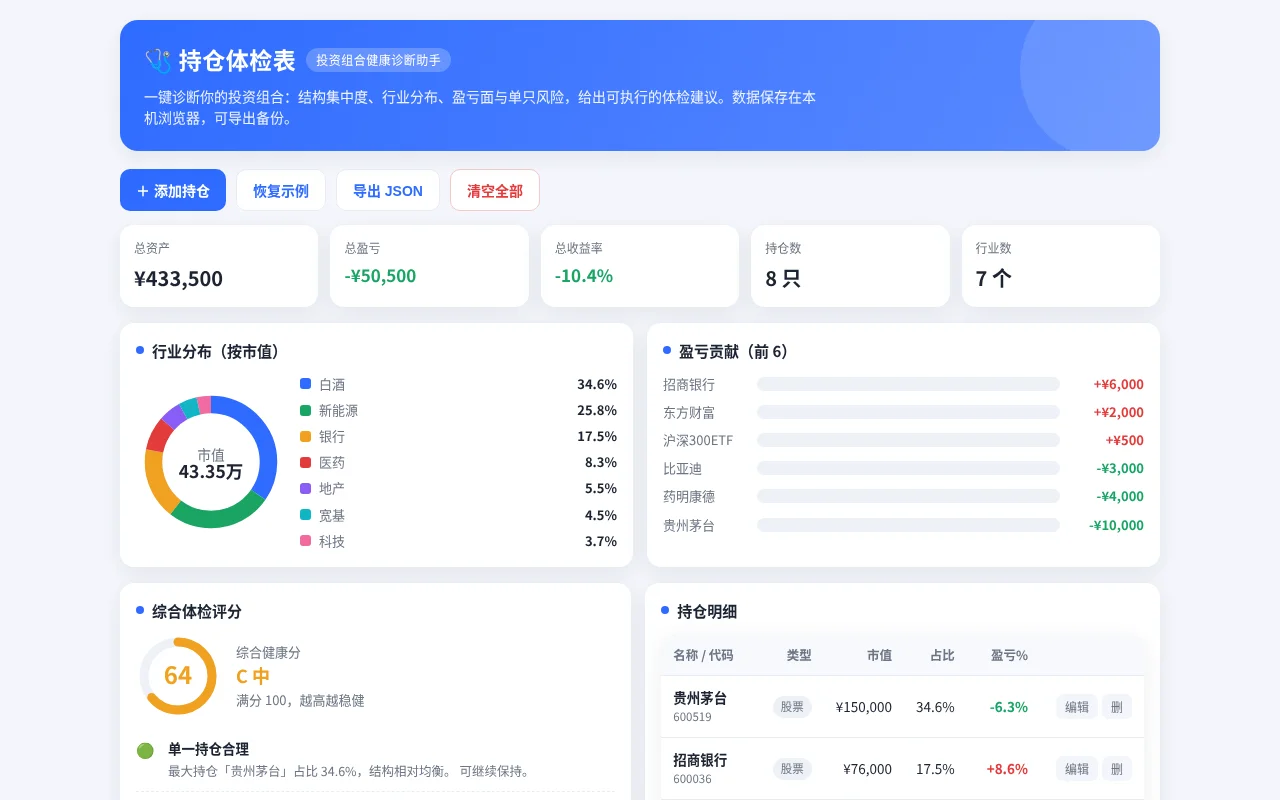
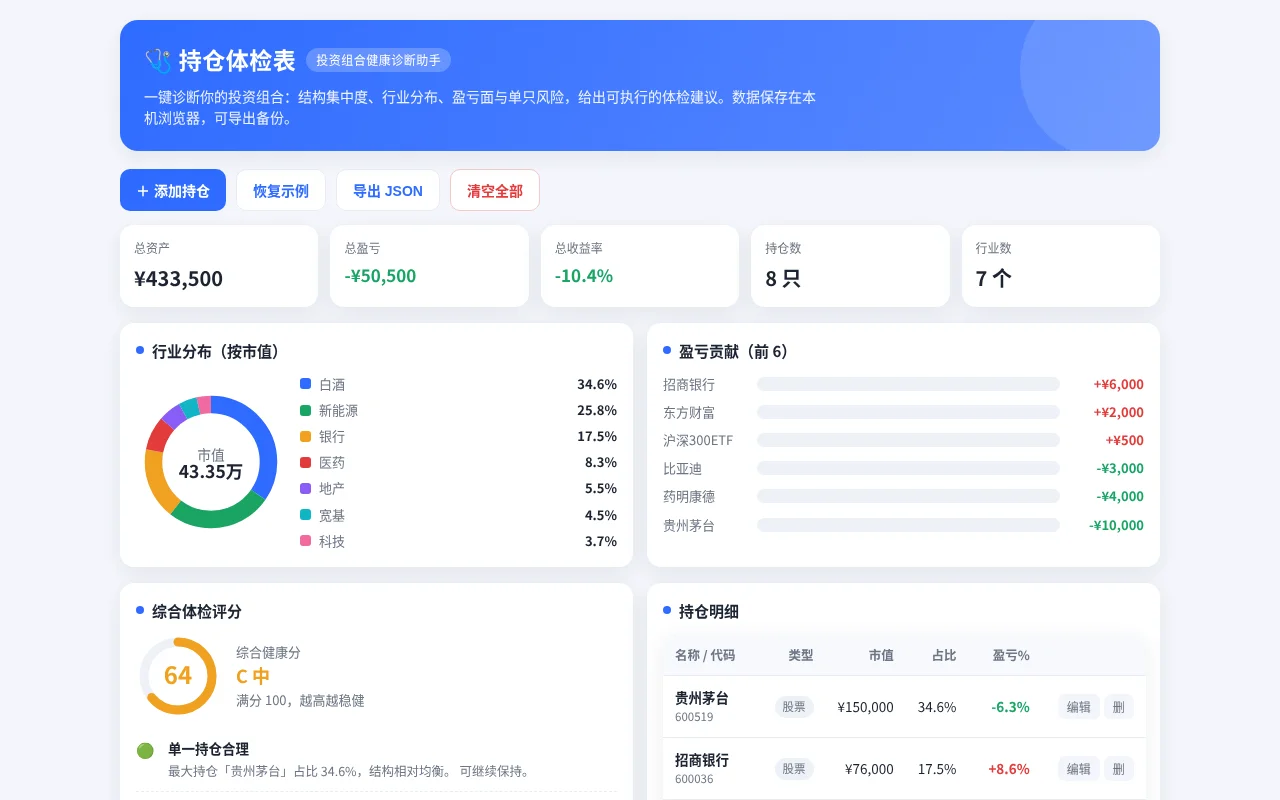
Fix mobile portfolio form layout

diff --git a/wb1024-c234-6e623bbc/src/app.js b/wb1024-c234-6e623bbc/src/app.js
@@ -1,4 +1,4 @@
-const style=document.createElement("style"); style.textContent="\n  :root{\n    --bg:#f4f6fb; --card:#ffffff; --ink:#1c2433; --sub:#6b7585;\n    --line:#e9edf4; --brand:#2f6bff; --brand-d:#1f4fd6;\n    --up:#e23b3b; --down:#1aa463;   /* A股习惯：涨红跌绿 */\n    --warn:#f0a020; --bad:#e23b3b; --good:#1aa463; --okbg:#eafaf1;\n    --shadow:0 6px 22px rgba(28,36,51,.08);\n  }\n  *{box-sizing:border-box;margin:0;padding:0}\n  body{font-family:-apple-system,BlinkMacSystemFont,\"Segoe UI\",\"PingFang SC\",\"Microsoft YaHei\",sans-serif;\n    background:var(--bg);color:var(--ink);line-height:1.55;padding:20px 14px 60px}\n  .wrap{max-width:1040px;margin:0 auto}\n  header.top{background:linear-gradient(120deg,#2f6bff,#5b8bff);color:#fff;border-radius:18px;\n    padding:22px 24px;box-shadow:var(--shadow);position:relative;overflow:hidden}\n  header.top:after{content:\"\";position:absolute;right:-40px;top:-40px;width:180px;height:180px;\n    background:rgba(255,255,255,.12);border-radius:50%}\n  header.top h1{font-size:23px;letter-spacing:.5px;display:flex;align-items:center;gap:10px}\n  header.top .tag{font-size:12px;background:rgba(255,255,255,.22);padding:3px 10px;border-radius:999px;font-weight:400}\n  header.top p{margin-top:8px;opacity:.92;font-size:14px;max-width:680px}\n  .toolbar{display:flex;flex-wrap:wrap;gap:10px;margin:18px 0 14px}\n  .btn{border:none;border-radius:10px;padding:10px 16px;font-size:14px;cursor:pointer;font-weight:600;transition:.15s}\n  .btn.primary{background:var(--brand);color:#fff}\n  .btn.primary:hover{background:var(--brand-d)}\n  .btn.ghost{background:#fff;color:var(--brand);border:1px solid var(--line)}\n  .btn.ghost:hover{border-color:var(--brand)}\n  .btn.danger{background:#fff;color:var(--bad);border:1px solid #f3c9c9}\n  .summary{display:grid;grid-template-columns:repeat(5,1fr);gap:12px;margin-bottom:16px}\n  .sc{background:var(--card);border-radius:14px;padding:14px 14px;box-shadow:var(--shadow)}\n  .sc .k{font-size:12px;color:var(--sub)}\n  .sc .v{font-size:20px;font-weight:700;margin-top:4px;word-break:break-all}\n  .sc .v.sm{font-size:17px}\n  .grid2{display:grid;grid-template-columns:1fr 1fr;gap:14px;margin-bottom:16px}\n  .panel{background:var(--card);border-radius:14px;padding:16px;box-shadow:var(--shadow)}\n  .panel h3{font-size:15px;margin-bottom:12px;display:flex;align-items:center;gap:8px}\n  .panel h3 .dot{width:8px;height:8px;border-radius:50%;background:var(--brand)}\n  .donut-wrap{display:flex;align-items:center;gap:14px}\n  .donut{flex:0 0 150px}\n  .legend{font-size:13px;display:flex;flex-direction:column;gap:6px;flex:1}\n  .legend .li{display:flex;align-items:center;gap:8px}\n  .legend .sw{width:11px;height:11px;border-radius:3px;flex:0 0 auto}\n  .legend .nm{flex:1;color:var(--sub)}\n  .legend .pc{font-weight:700}\n  .bars{display:flex;flex-direction:column;gap:8px}\n  .bar{display:flex;align-items:center;gap:10px;font-size:13px}\n  .bar .nm{width:84px;color:var(--sub);flex:0 0 auto;overflow:hidden;text-overflow:ellipsis;white-space:nowrap}\n  .bar .track{flex:1;height:14px;background:#eef1f7;border-radius:7px;overflow:hidden}\n  .bar .fill{height:100%;border-radius:7px}\n  .bar .val{width:74px;text-align:right;font-weight:600;flex:0 0 auto}\n  .diag .row{display:flex;gap:10px;padding:10px 0;border-bottom:1px dashed var(--line);font-size:13.5px}\n  .diag .row:last-child{border-bottom:none}\n  .diag .ic{flex:0 0 22px;font-size:15px}\n  .diag .tx{flex:1}\n  .diag .tx b{display:block;margin-bottom:1px}\n  .diag .tx span{color:var(--sub);font-size:12.5px}\n  .score{display:flex;align-items:center;gap:16px;margin-bottom:10px}\n  .score .ring{position:relative;width:84px;height:84px;flex:0 0 auto}\n  .score .ring .num{position:absolute;inset:0;display:flex;align-items:center;justify-content:center;\n    font-size:24px;font-weight:800}\n  .score .gl{font-size:13px;color:var(--sub)}\n  .score .gl b{font-size:18px;color:var(--ink);display:block}\n  table{width:100%;border-collapse:collapse;font-size:13.5px;background:var(--card);\n    border-radius:14px;overflow:hidden;box-shadow:var(--shadow)}\n  thead th{background:#f7f9fd;text-align:right;padding:11px 12px;color:var(--sub);font-weight:600;font-size:12.5px;\n    border-bottom:1px solid var(--line);white-space:nowrap}\n  thead th:first-child{text-align:left}\n  tbody td{padding:11px 12px;text-align:right;border-bottom:1px solid var(--line);white-space:nowrap}\n  tbody td:first-child{text-align:left}\n  tbody tr:last-child td{border-bottom:none}\n  .nm-cell b{font-weight:600}\n  .nm-cell small{color:var(--sub);display:block;font-size:11.5px}\n  .pill{display:inline-block;padding:2px 8px;border-radius:999px;font-size:11.5px;background:#eef1f7;color:var(--sub)}\n  .up{color:var(--up);font-weight:600}\n  .down{color:var(--down);font-weight:600}\n  .rowact button{border:none;background:#f3f5fa;color:var(--sub);border-radius:7px;padding:4px 9px;\n    font-size:12px;cursor:pointer;margin-left:4px}\n  .rowact button:hover{background:#e6e9f1;color:var(--brand)}\n  .empty{padding:30px;text-align:center;color:var(--sub);font-size:14px}\n  /* modal */\n  .mask{position:fixed;inset:0;background:rgba(20,28,45,.45);display:none;align-items:center;justify-content:center;padding:16px;z-index:50}\n  .mask.on{display:flex}\n  .modal{background:#fff;border-radius:16px;width:100%;max-width:440px;padding:20px;box-shadow:0 18px 50px rgba(0,0,0,.25)}\n  .modal h3{font-size:16px;margin-bottom:14px}\n  .fld{margin-bottom:11px}\n  .fld label{display:block;font-size:12.5px;color:var(--sub);margin-bottom:4px}\n  .fld input,.fld select{width:100%;border:1px solid var(--line);border-radius:9px;padding:9px 11px;font-size:14px;outline:none}\n  .fld input:focus,.fld select:focus{border-color:var(--brand)}\n  .f2{display:flex;gap:10px}\n  .f2 .fld{flex:1}\n  .modal .mactions{display:flex;justify-content:flex-end;gap:10px;margin-top:8px}\n  .note{font-size:12px;color:var(--sub);margin-top:10px;text-align:center}\n  @media(max-width:760px){\n    .summary{grid-template-columns:repeat(2,1fr)}\n    .grid2{grid-template-columns:1fr}\n  }\n"; document.head.appendChild(style);
+const style=document.createElement("style"); style.textContent="\n  :root{\n    --bg:#f4f6fb; --card:#ffffff; --ink:#1c2433; --sub:#6b7585;\n    --line:#e9edf4; --brand:#2f6bff; --brand-d:#1f4fd6;\n    --up:#e23b3b; --down:#1aa463;   /* A股习惯：涨红跌绿 */\n    --warn:#f0a020; --bad:#e23b3b; --good:#1aa463; --okbg:#eafaf1;\n    --shadow:0 6px 22px rgba(28,36,51,.08);\n  }\n  *{box-sizing:border-box;margin:0;padding:0}\n  body{font-family:-apple-system,BlinkMacSystemFont,\"Segoe UI\",\"PingFang SC\",\"Microsoft YaHei\",sans-serif;\n    background:var(--bg);color:var(--ink);line-height:1.55;padding:20px 14px 60px}\n  .wrap{max-width:1040px;margin:0 auto}\n  header.top{background:linear-gradient(120deg,#2f6bff,#5b8bff);color:#fff;border-radius:18px;\n    padding:22px 24px;box-shadow:var(--shadow);position:relative;overflow:hidden}\n  header.top:after{content:\"\";position:absolute;right:-40px;top:-40px;width:180px;height:180px;\n    background:rgba(255,255,255,.12);border-radius:50%}\n  header.top h1{font-size:23px;letter-spacing:.5px;display:flex;align-items:center;gap:10px}\n  header.top .tag{font-size:12px;background:rgba(255,255,255,.22);padding:3px 10px;border-radius:999px;font-weight:400}\n  header.top p{margin-top:8px;opacity:.92;font-size:14px;max-width:680px}\n  .toolbar{display:flex;flex-wrap:wrap;gap:10px;margin:18px 0 14px}\n  .btn{border:none;border-radius:10px;padding:10px 16px;font-size:14px;cursor:pointer;font-weight:600;transition:.15s}\n  .btn.primary{background:var(--brand);color:#fff}\n  .btn.primary:hover{background:var(--brand-d)}\n  .btn.ghost{background:#fff;color:var(--brand);border:1px solid var(--line)}\n  .btn.ghost:hover{border-color:var(--brand)}\n  .btn.danger{background:#fff;color:var(--bad);border:1px solid #f3c9c9}\n  .summary{display:grid;grid-template-columns:repeat(5,1fr);gap:12px;margin-bottom:16px}\n  .sc{background:var(--card);border-radius:14px;padding:14px 14px;box-shadow:var(--shadow)}\n  .sc .k{font-size:12px;color:var(--sub)}\n  .sc .v{font-size:20px;font-weight:700;margin-top:4px;word-break:break-all}\n  .sc .v.sm{font-size:17px}\n  .grid2{display:grid;grid-template-columns:1fr 1fr;gap:14px;margin-bottom:16px}\n  .panel{background:var(--card);border-radius:14px;padding:16px;box-shadow:var(--shadow)}\n  .panel h3{font-size:15px;margin-bottom:12px;display:flex;align-items:center;gap:8px}\n  .panel h3 .dot{width:8px;height:8px;border-radius:50%;background:var(--brand)}\n  .donut-wrap{display:flex;align-items:center;gap:14px}\n  .donut{flex:0 0 150px}\n  .legend{font-size:13px;display:flex;flex-direction:column;gap:6px;flex:1}\n  .legend .li{display:flex;align-items:center;gap:8px}\n  .legend .sw{width:11px;height:11px;border-radius:3px;flex:0 0 auto}\n  .legend .nm{flex:1;color:var(--sub)}\n  .legend .pc{font-weight:700}\n  .bars{display:flex;flex-direction:column;gap:8px}\n  .bar{display:flex;align-items:center;gap:10px;font-size:13px}\n  .bar .nm{width:84px;color:var(--sub);flex:0 0 auto;overflow:hidden;text-overflow:ellipsis;white-space:nowrap}\n  .bar .track{flex:1;height:14px;background:#eef1f7;border-radius:7px;overflow:hidden}\n  .bar .fill{height:100%;border-radius:7px}\n  .bar .val{width:74px;text-align:right;font-weight:600;flex:0 0 auto}\n  .diag .row{display:flex;gap:10px;padding:10px 0;border-bottom:1px dashed var(--line);font-size:13.5px}\n  .diag .row:last-child{border-bottom:none}\n  .diag .ic{flex:0 0 22px;font-size:15px}\n  .diag .tx{flex:1}\n  .diag .tx b{display:block;margin-bottom:1px}\n  .diag .tx span{color:var(--sub);font-size:12.5px}\n  .score{display:flex;align-items:center;gap:16px;margin-bottom:10px}\n  .score .ring{position:relative;width:84px;height:84px;flex:0 0 auto}\n  .score .ring .num{position:absolute;inset:0;display:flex;align-items:center;justify-content:center;\n    font-size:24px;font-weight:800}\n  .score .gl{font-size:13px;color:var(--sub)}\n  .score .gl b{font-size:18px;color:var(--ink);display:block}\n  table{width:100%;border-collapse:collapse;font-size:13.5px;background:var(--card);\n    border-radius:14px;overflow:hidden;box-shadow:var(--shadow)}\n  thead th{background:#f7f9fd;text-align:right;padding:11px 12px;color:var(--sub);font-weight:600;font-size:12.5px;\n    border-bottom:1px solid var(--line);white-space:nowrap}\n  thead th:first-child{text-align:left}\n  tbody td{padding:11px 12px;text-align:right;border-bottom:1px solid var(--line);white-space:nowrap}\n  tbody td:first-child{text-align:left}\n  tbody tr:last-child td{border-bottom:none}\n  .nm-cell b{font-weight:600}\n  .nm-cell small{color:var(--sub);display:block;font-size:11.5px}\n  .pill{display:inline-block;padding:2px 8px;border-radius:999px;font-size:11.5px;background:#eef1f7;color:var(--sub)}\n  .up{color:var(--up);font-weight:600}\n  .down{color:var(--down);font-weight:600}\n  .rowact button{border:none;background:#f3f5fa;color:var(--sub);border-radius:7px;padding:4px 9px;\n    font-size:12px;cursor:pointer;margin-left:4px}\n  .rowact button:hover{background:#e6e9f1;color:var(--brand)}\n  .empty{padding:30px;text-align:center;color:var(--sub);font-size:14px}\n  /* modal */\n  .mask{position:fixed;inset:0;background:rgba(20,28,45,.45);display:none;align-items:center;justify-content:center;padding:16px;z-index:50}\n  .mask.on{display:flex}\n  .modal{background:#fff;border-radius:16px;width:100%;max-width:440px;padding:20px;box-shadow:0 18px 50px rgba(0,0,0,.25)}\n  .modal h3{font-size:16px;margin-bottom:14px}\n  .fld{margin-bottom:11px}\n  .fld label{display:block;font-size:12.5px;color:var(--sub);margin-bottom:4px}\n  .fld input,.fld select{width:100%;border:1px solid var(--line);border-radius:9px;padding:9px 11px;font-size:14px;outline:none}\n  .fld input:focus,.fld select:focus{border-color:var(--brand)}\n  .f2{display:flex;gap:10px}\n  .f2 .fld{flex:1}\n  .modal .mactions{display:flex;justify-content:flex-end;gap:10px;margin-top:8px}\n  .note{font-size:12px;color:var(--sub);margin-top:10px;text-align:center}\n  @media(max-width:760px){\n    .summary{grid-template-columns:repeat(2,1fr)}\n    .grid2{grid-template-columns:1fr}\n  }\n"; style.textContent += "\n.grid2,.panel{min-width:0}.panel:has(table){overflow-x:auto}.f2 .fld{min-width:0}.modal{min-width:0;max-height:calc(100dvh - 32px);overflow-y:auto}.fld input,.fld select{min-width:0}"; document.head.appendChild(style);
 document.getElementById("app").innerHTML="\n<div class=\"wrap\">\n  <header class=\"top\">\n    <h1>🩺 持仓体检表 <span class=\"tag\">投资组合健康诊断助手</span></h1>\n    <p>一键诊断你的投资组合：结构集中度、行业分布、盈亏面与单只风险，给出可执行的体检建议。数据保存在本机浏览器，可导出备份。</p>\n  </header>\n\n  <div class=\"toolbar\">\n    <button class=\"btn primary\" id=\"addBtn\">＋ 添加持仓</button>\n    <button class=\"btn ghost\" id=\"resetBtn\">恢复示例</button>\n    <button class=\"btn ghost\" id=\"exportBtn\">导出 JSON</button>\n    <button class=\"btn danger\" id=\"clearBtn\">清空全部</button>\n  </div>\n\n  <div class=\"summary\" id=\"summary\"></div>\n\n  <div class=\"grid2\">\n    <div class=\"panel\">\n      <h3><span class=\"dot\"></span>行业分布（按市值）</h3>\n      <div class=\"donut-wrap\">\n        <svg class=\"donut\" id=\"donut\" viewBox=\"0 0 120 120\"></svg>\n        <div class=\"legend\" id=\"legend\"></div>\n      </div>\n    </div>\n    <div class=\"panel\">\n      <h3><span class=\"dot\"></span>盈亏贡献（前 6）</h3>\n      <div class=\"bars\" id=\"plBars\"></div>\n    </div>\n  </div>\n\n  <div class=\"grid2\">\n    <div class=\"panel diag\">\n      <h3><span class=\"dot\"></span>综合体检评分</h3>\n      <div class=\"score\" id=\"scoreBox\"></div>\n      <div id=\"diagList\"></div>\n    </div>\n    <div class=\"panel\">\n      <h3><span class=\"dot\"></span>持仓明细</h3>\n      <table>\n        <thead><tr>\n          <th>名称 / 代码</th><th>类型</th><th>市值</th><th>占比</th><th>盈亏%</th><th></th>\n        </tr></thead>\n        <tbody id=\"tbody\"></tbody>\n      </table>\n      <div class=\"empty\" id=\"emptyTip\" style=\"display:none\">还没有持仓，点「＋ 添加持仓」或「恢复示例」体验。</div>\n    </div>\n  </div>\n  <div class=\"note\">示例数据为示意价格，仅用于演示诊断逻辑；正式使用时请填入你真实的持仓与行情。</div>\n</div>\n\n<!-- modal -->\n<div class=\"mask\" id=\"mask\">\n  <div class=\"modal\">\n    <h3 id=\"mTitle\">添加持仓</h3>\n    <div class=\"f2\">\n      <div class=\"fld\"><label>名称</label><input id=\"iName\" placeholder=\"如 贵州茅台\"></div>\n      <div class=\"fld\"><label>代码</label><input id=\"iCode\" placeholder=\"如 600519\"></div>\n    </div>\n    <div class=\"f2\">\n      <div class=\"fld\"><label>类型</label>\n        <select id=\"iType\"><option>股票</option><option>ETF</option><option>基金</option><option>其他</option></select>\n      </div>\n      <div class=\"fld\"><label>行业 / 板块</label><input id=\"iInd\" placeholder=\"如 白酒 / 新能源\"></div>\n    </div>\n    <div class=\"f2\">\n      <div class=\"fld\"><label>数量（股/份）</label><input id=\"iQty\" placeholder=\"100\" type=\"number\"></div>\n      <div class=\"fld\"><label>成本价</label><input id=\"iCost\" placeholder=\"1600\" type=\"number\"></div>\n    </div>\n    <div class=\"fld\"><label>现价</label><input id=\"iPrice\" placeholder=\"1500\" type=\"number\"></div>\n    <div class=\"mactions\">\n      <button class=\"btn ghost\" id=\"mCancel\">取消</button>\n      <button class=\"btn primary\" id=\"mSave\">保存</button>\n    </div>\n  </div>\n</div>\n\n";
 
 const KEY="wb_portfolio_v1";

diff --git a/wb1024-c234-6e623bbc/showcase/preview.html b/wb1024-c234-6e623bbc/showcase/preview.html
@@ -92,6 +92,8 @@
     .summary{grid-template-columns:repeat(2,1fr)}
     .grid2{grid-template-columns:1fr}
   }
+
+.grid2,.panel{min-width:0}.panel:has(table){overflow-x:auto}.f2 .fld{min-width:0}.modal{min-width:0;max-height:calc(100dvh - 32px);overflow-y:auto}.fld input,.fld select{min-width:0}
 </style><body>
 <div class="wrap">
   <header class="top">
